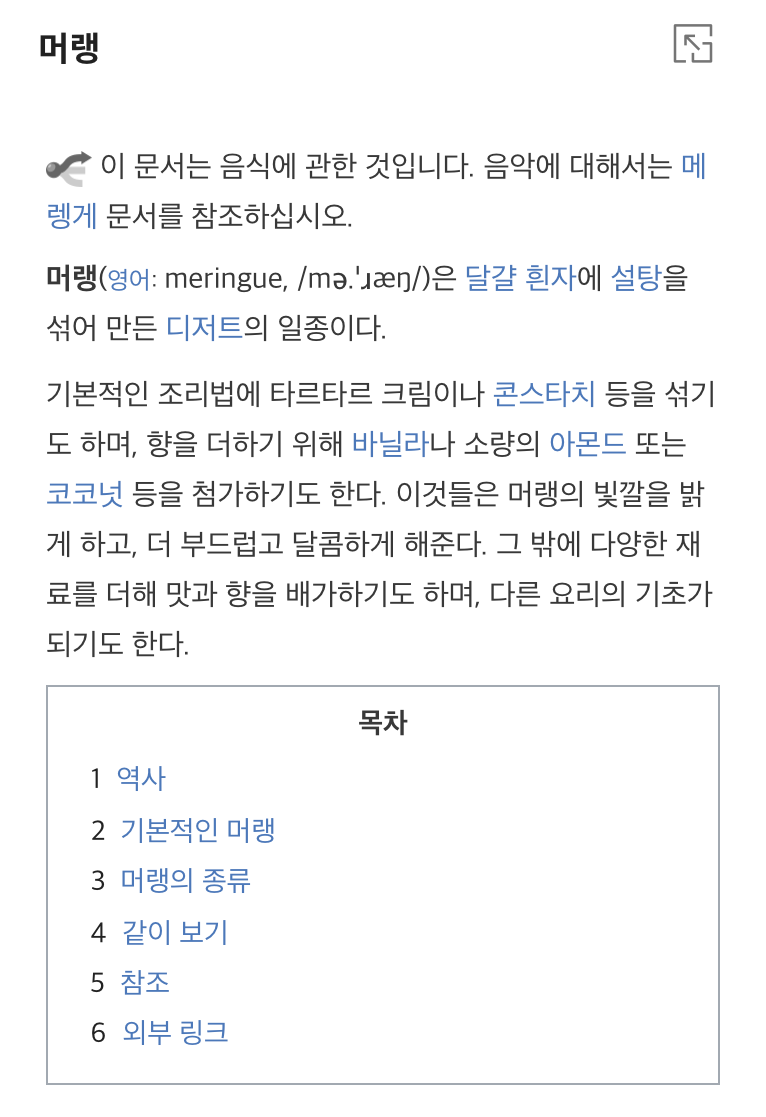
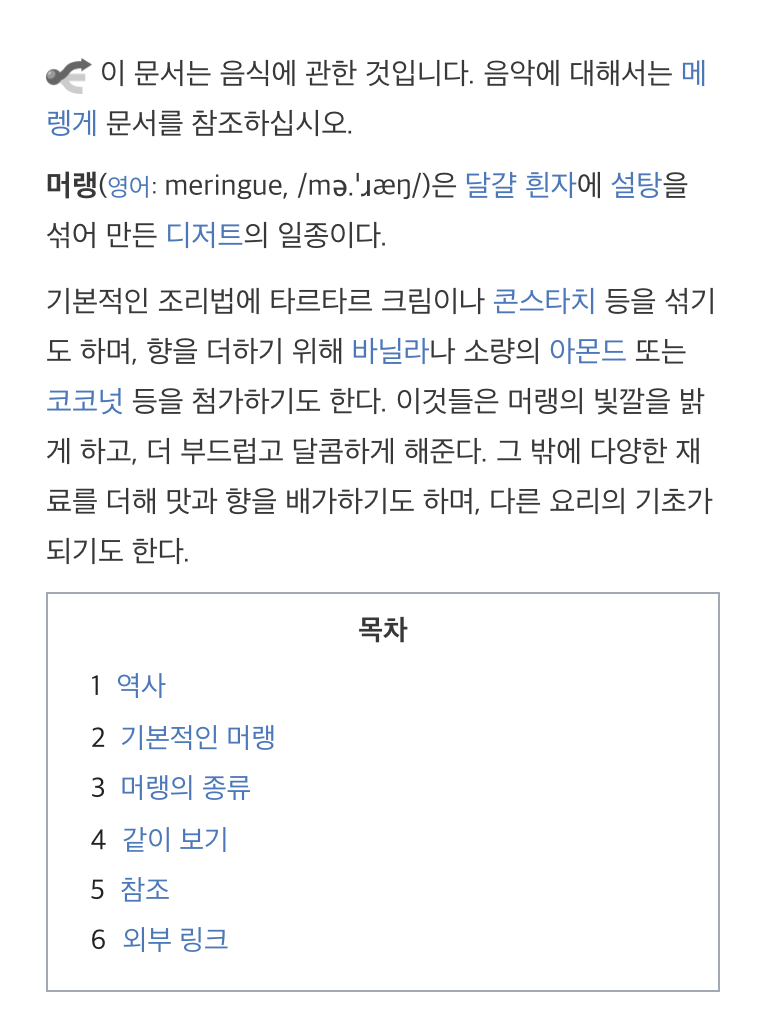
change design of wiki-search dialog

Changed region(s): [[0.03, 0.0, 0.9308, 0.625], [0.1201, 0.6562, 0.3603, 0.9375], [0.4504, 0.5938, 0.5405, 0.6562]]

diff --git a/dialogs/wiki-search/style.scss b/dialogs/wiki-search/style.scss
@@ -5,7 +5,7 @@
   }
 
   .header {
-    height: 140px;
+    height: 120px;
 
     .ic-long_arrow_left {
       position: absolute;
@@ -16,11 +16,51 @@
   }
 
   .body {
-    height: calc(100% - 140px);
+    height: calc(100% - 120px);
     padding: 0;
+    position: relative;
     
     img {
       width: 100%;
+    }
+  }
+
+  .keyword {
+    line-height: normal;
+    font-size: 0.9em;
+    font-weight: bold;
+  }
+
+  .fab-button {
+    position: absolute;
+    right: 1em;
+    bottom: 1em;
+    z-index: 10;
+  }
+
+  .fab-button {
+    display: inline-block;
+    z-index: 10;
+    width: 56px;
+    height: 56px;
+    border-radius: 50%;
+    background: white;
+    box-shadow: 0 3px 5px -1px rgba(0,0,0,.2), 0 6px 10px 0 rgba(0,0,0,.14), 0 1px 18px 0 rgba(0,0,0,.12);
+    transition: opacity 0.2s linear;
+    text-align: center;
+
+    i {
+      line-height: 56px;
+    }
+
+    &.mini {
+      width: 40px;
+      height: 40px;
+      
+      i {
+        font-size: 22px;
+        line-height: 40px;
+      }
     }
   }
 

diff --git a/dialogs/wiki-search/index.html b/dialogs/wiki-search/index.html
@@ -20,18 +20,13 @@
           위키검색
           <i class="ic-x close-button clickable"></i>
           <i class="ic-long_arrow_left"></i>
-          <div class="search-bar">
-            <div class="bar">
-              <i class="ic-search"></i>
-              <div class="expand"></div>
-              <div class="language">
-                KO<i class="ic-dropdown"></i>
-              </div>
-            </div>
+          <div class="keyword">
+            머랭
           </div>
         </div>
         <div class="body">
           <img src="/dialogs/wiki-search/wiki-result.png">
+          <div class="fab-button mini"><i class="ic-expand"></i></div>
         </div>
       </div>
     </div>
